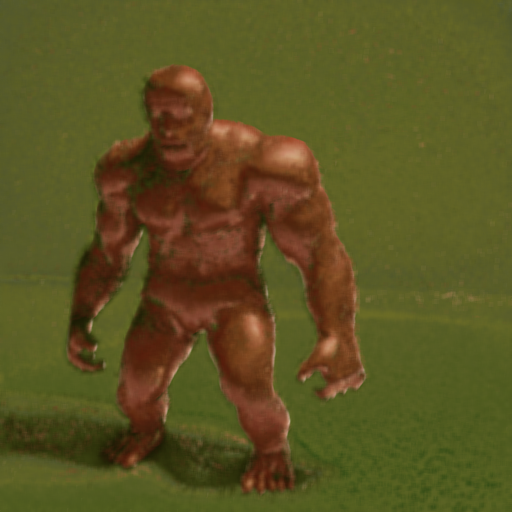
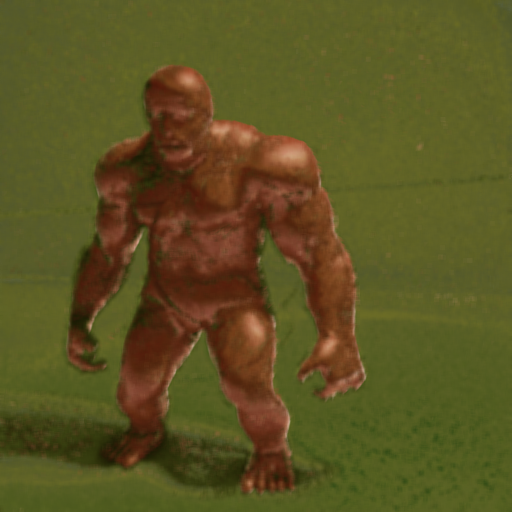
feat: added 4th LPE and fixed k calculation

diff --git a/patchmatch.cpp b/patchmatch.cpp
@@ -29,7 +29,7 @@ std::vector<Patch*> get_patches(const std::vector<RGBA>& img, int width, int hei
     for (int p = 0; p < img.size(); ++p) {
         Patch *patch = result[p];
         patch->coordinates = index_to_position(p, width);
-        patch->neighbor_patches.reserve(window_width * window_width);
+        //patch->neighbor_patches.reserve(window_width * window_width);
         patch->is_matched = false;
 
         const Vector2i& xy = patch->coordinates;
@@ -67,7 +67,7 @@ double Energy(const std::vector<VectorXf*>& A, const std::vector<VectorXf*>& B,
               const VectorXf& Aprime, const VectorXf& Bprime, double mu) {
 //    return (|| A'(p) - B'(q) ||)^2 + mu (|| A(p) - B(q) ||)^2
     double result = 0.0;
-    for (int i = 0; i < 4; ++i) {
+    for (int i = 0; i < 5; ++i) {
         result += Distance(*A[i], *B[i]);
     }
     return (result * mu) + Distance(Aprime, Bprime);
@@ -78,22 +78,24 @@ std::mt19937                            generator(rand_dev());
 std::uniform_real_distribution<double>   distr(-1.0, 1.0);
 
 void Patchmatcher::random_search(NNF_t& NNF, const Image& src, const Image& tgt, Vector2i xy){
-    std::vector<VectorXf*> src_patches(4);
+    std::vector<VectorXf*> src_patches(5);
     int src_index = pos_to_index(xy, src.width);
     const VectorXf& src_stylized_patch = src.patches_stylized[src_index]->buffer;
     src_patches[0] = &(src.patches_original[src_index]->buffer);
     src_patches[1] = &(src.patches_LPE1[src_index]->buffer);
     src_patches[2] = &(src.patches_LPE2[src_index]->buffer);
     src_patches[3] = &(src.patches_LPE3[src_index]->buffer);
+    src_patches[4] = &(src.patches_LPE4[src_index]->buffer);
 
     Vector2i v0 = NNF[pos_to_index(xy, src.width)]; // this is the offset for the patch of interest
-    std::vector<VectorXf*> final_patches(4);
+    std::vector<VectorXf*> final_patches(5);
     int index = pos_to_index(xy + v0, tgt.width);
     const VectorXf& final_stylized_patch = tgt.patches_stylized[index]->buffer;
     final_patches[0] = &(tgt.patches_original[index]->buffer);
     final_patches[1] = &(tgt.patches_LPE1[index]->buffer);
     final_patches[2] = &(tgt.patches_LPE2[index]->buffer);
     final_patches[3] = &(tgt.patches_LPE3[index]->buffer);
+    final_patches[4] = &(tgt.patches_LPE4[index]->buffer);
 
     double final_energy = Energy(src_patches, final_patches, src_stylized_patch, final_stylized_patch, mu);
 
@@ -113,6 +115,7 @@ void Patchmatcher::random_search(NNF_t& NNF, const Image& src, const Image& tgt,
         candidate_patches[1] = &(tgt.patches_LPE1[candidate_index]->buffer);
         candidate_patches[2] = &(tgt.patches_LPE2[candidate_index]->buffer);
         candidate_patches[3] = &(tgt.patches_LPE3[candidate_index]->buffer);
+        candidate_patches[4] = &(tgt.patches_LPE4[candidate_index]->buffer);
         double candidate_energy = Energy(src_patches, candidate_patches, src_stylized_patch, candidate_stylized_patch, mu);
 
         if (candidate_energy < final_energy && !(tgt.patches_stylized[candidate_index]->is_matched)){
@@ -147,27 +150,29 @@ void Patchmatcher::propagate_odd(NNF_t& NNF, const Image& src, const Image& tgt,
     bool left_valid = (xy[0] > 0);
     bool top_valid = (xy[1] > 0);
 
-    std::vector<VectorXf*> src_patches(4);
+    std::vector<VectorXf*> src_patches(5);
     int src_index = pos_to_index(xy, src.width);
     const VectorXf& src_stylized_patch = src.patches_stylized[src_index]->buffer;
     src_patches[0] = &(src.patches_original[src_index]->buffer);
     src_patches[1] = &(src.patches_LPE1[src_index]->buffer);
     src_patches[2] = &(src.patches_LPE2[src_index]->buffer);
     src_patches[3] = &(src.patches_LPE3[src_index]->buffer);
+    src_patches[4] = &(src.patches_LPE4[src_index]->buffer);
 
     Vector2i tgt_center = NNF[pos_to_index(xy, tgt.width)];
-    std::vector<VectorXf*> tgt_center_patches(4);
+    std::vector<VectorXf*> tgt_center_patches(5);
     int tgt_center_index = pos_to_index(xy + tgt_center, tgt.width);
     const VectorXf& tgt_center_stylized_patch = tgt.patches_stylized[tgt_center_index]->buffer;
     tgt_center_patches[0] = &(tgt.patches_original[tgt_center_index]->buffer);
     tgt_center_patches[1] = &(tgt.patches_LPE1[tgt_center_index]->buffer);
     tgt_center_patches[2] = &(tgt.patches_LPE2[tgt_center_index]->buffer);
     tgt_center_patches[3] = &(tgt.patches_LPE3[tgt_center_index]->buffer);
+    tgt_center_patches[4] = &(tgt.patches_LPE4[tgt_center_index]->buffer);
 
 
     Vector2i tgt_left;
     Vector2i tmp;
-    std::vector<VectorXf*> tgt_left_patches(4);
+    std::vector<VectorXf*> tgt_left_patches(5);
     VectorXf tgt_left_stylized_patch;
     if (left_valid) {
         tgt_left = NNF[pos_to_index(xy - Vector2i(1, 0), tgt.width)];
@@ -179,6 +184,7 @@ void Patchmatcher::propagate_odd(NNF_t& NNF, const Image& src, const Image& tgt,
             tgt_left_patches[1] = &(tgt.patches_LPE1[tgt_left_index]->buffer);
             tgt_left_patches[2] = &(tgt.patches_LPE2[tgt_left_index]->buffer);
             tgt_left_patches[3] = &(tgt.patches_LPE3[tgt_left_index]->buffer);
+            tgt_left_patches[4] = &(tgt.patches_LPE4[tgt_left_index]->buffer);
             if (tgt.patches_original[tgt_left_index]->is_matched) left_valid = false;
         } else {
             left_valid = false;
@@ -186,7 +192,7 @@ void Patchmatcher::propagate_odd(NNF_t& NNF, const Image& src, const Image& tgt,
     }
 
     Vector2i tgt_top;
-    std::vector<VectorXf*> tgt_top_patches(4);
+    std::vector<VectorXf*> tgt_top_patches(5);
     VectorXf tgt_top_stylized_patch;
     if (top_valid) {
         tgt_top = NNF[pos_to_index(xy - Vector2i(0, 1), tgt.width)];
@@ -198,6 +204,7 @@ void Patchmatcher::propagate_odd(NNF_t& NNF, const Image& src, const Image& tgt,
             tgt_top_patches[1] = &(tgt.patches_LPE1[tgt_top_index]->buffer);
             tgt_top_patches[2] = &(tgt.patches_LPE2[tgt_top_index]->buffer);
             tgt_top_patches[3] = &(tgt.patches_LPE3[tgt_top_index]->buffer);
+            tgt_top_patches[4] = &(tgt.patches_LPE4[tgt_top_index]->buffer);
             if (tgt.patches_original[tgt_top_index]->is_matched) top_valid = false;
         } else {
             top_valid = false;
@@ -227,27 +234,29 @@ void Patchmatcher::propagate_even(NNF_t& NNF, const Image& src, const Image& tgt
     bool right_valid = (xy[0] < src.width - 1);
     bool bottom_valid = (xy[1] < src.height - 1);
 
-    std::vector<VectorXf*> src_patches(4);
+    std::vector<VectorXf*> src_patches(5);
     int src_index = pos_to_index(xy, src.width);
     const VectorXf& src_stylized_patch = src.patches_stylized[src_index]->buffer;
     src_patches[0] = &(src.patches_original[src_index]->buffer);
     src_patches[1] = &(src.patches_LPE1[src_index]->buffer);
     src_patches[2] = &(src.patches_LPE2[src_index]->buffer);
     src_patches[3] = &(src.patches_LPE3[src_index]->buffer);
+    src_patches[4] = &(src.patches_LPE4[src_index]->buffer);
 
     Vector2i tgt_center = NNF[pos_to_index(xy, tgt.width)];
-    std::vector<VectorXf*> tgt_center_patches(4);
+    std::vector<VectorXf*> tgt_center_patches(5);
     int tgt_center_index = pos_to_index(xy + tgt_center, tgt.width);
     const VectorXf& tgt_center_stylized_patch = tgt.patches_stylized[tgt_center_index]->buffer;
     tgt_center_patches[0] = &(tgt.patches_original[tgt_center_index]->buffer);
     tgt_center_patches[1] = &(tgt.patches_LPE1[tgt_center_index]->buffer);
     tgt_center_patches[2] = &(tgt.patches_LPE2[tgt_center_index]->buffer);
     tgt_center_patches[3] = &(tgt.patches_LPE3[tgt_center_index]->buffer);
+    tgt_center_patches[4] = &(tgt.patches_LPE4[tgt_center_index]->buffer);
 
 
     Vector2i tgt_right;
     Vector2i tmp;
-    std::vector<VectorXf*> tgt_right_patches(4);
+    std::vector<VectorXf*> tgt_right_patches(5);
     VectorXf tgt_right_stylized_patch;
     if (right_valid) {
         tgt_right = NNF[pos_to_index(xy + Vector2i(1, 0), tgt.width)];
@@ -259,6 +268,7 @@ void Patchmatcher::propagate_even(NNF_t& NNF, const Image& src, const Image& tgt
             tgt_right_patches[1] = &(tgt.patches_LPE1[tgt_right_index]->buffer);
             tgt_right_patches[2] = &(tgt.patches_LPE2[tgt_right_index]->buffer);
             tgt_right_patches[3] = &(tgt.patches_LPE3[tgt_right_index]->buffer);
+            tgt_right_patches[4] = &(tgt.patches_LPE4[tgt_right_index]->buffer);
             if (tgt.patches_original[tgt_right_index]->is_matched) right_valid = false;
         } else {
             right_valid = false;
@@ -266,7 +276,7 @@ void Patchmatcher::propagate_even(NNF_t& NNF, const Image& src, const Image& tgt
     }
 
     Vector2i tgt_bottom;
-    std::vector<VectorXf*> tgt_bottom_patches(4);
+    std::vector<VectorXf*> tgt_bottom_patches(5);
     VectorXf tgt_bottom_stylized_patch;
     if (bottom_valid) {
         tgt_bottom = NNF[pos_to_index(xy + Vector2i(0, 1), tgt.width)];
@@ -278,6 +288,7 @@ void Patchmatcher::propagate_even(NNF_t& NNF, const Image& src, const Image& tgt
             tgt_bottom_patches[1] = &(tgt.patches_LPE1[tgt_bottom_index]->buffer);
             tgt_bottom_patches[2] = &(tgt.patches_LPE2[tgt_bottom_index]->buffer);
             tgt_bottom_patches[3] = &(tgt.patches_LPE3[tgt_bottom_index]->buffer);
+            tgt_bottom_patches[4] = &(tgt.patches_LPE4[tgt_bottom_index]->buffer);
             if (tgt.patches_original[tgt_bottom_index]->is_matched) bottom_valid = false;
         } else {
             bottom_valid = false;

diff --git a/stylit.cpp b/stylit.cpp
@@ -25,7 +25,8 @@ void init_image(const std::vector<QString>& filenames, Image& img) {
         case 1: img.patches_LPE1 = patches; break;
         case 2: img.patches_LPE2 = patches; break;
         case 3: img.patches_LPE3 = patches; break;
-        case 4: img.patches_stylized = patches; break;
+        case 4: img.patches_LPE4 = patches; break;
+        case 5: img.patches_stylized = patches; break;
         }
     }
 }
@@ -63,13 +64,14 @@ void Stylit::stylit_algorithm(const Image& src, Image& tgt){
         tgt.patches_LPE1[i]->is_matched = false;
         tgt.patches_LPE2[i]->is_matched = false;
         tgt.patches_LPE3[i]->is_matched = false;
+        tgt.patches_LPE4[i]->is_matched = false;
         tgt.patches_stylized[i]->is_matched = false;
         unmatched.insert(i);
     }
 
     while(percent_coverage < 0.95f){
         NNF_t temp_NNF = patchmatcher.patch_match(src, tgt, unmatched);
-        int k = 0.7 * patchmatcher.errors.size();//calculate_error_budget(patchmatcher.errors);
+        int k = calculate_error_budget(patchmatcher.errors);
 
         for (int i = 0; i < k; i++){
             int source_index = patchmatcher.errors[i].first;
@@ -86,6 +88,7 @@ void Stylit::stylit_algorithm(const Image& src, Image& tgt){
             tgt.patches_LPE1[target_index]->is_matched = true;
             tgt.patches_LPE2[target_index]->is_matched = true;
             tgt.patches_LPE3[target_index]->is_matched = true;
+            tgt.patches_LPE4[target_index]->is_matched = true;
             final_NNF[source_index] = temp_NNF[source_index];
             final_reverse_NNF[target_index] = -temp_NNF[source_index];
 
@@ -107,9 +110,7 @@ void Stylit::stylit_algorithm(const Image& src, Image& tgt){
     std::vector<RGBA> new_image(tgt.width * tgt.height);
 #pragma omp parallel for
     for(int i = 0; i < (tgt.width * tgt.height); i ++){
-        if (tgt.patches_original[i]->is_matched){
-            new_image[i] = average(i, src, tgt);
-        }
+        new_image[i] = average(i, src, tgt);
     }
 
     tgt.patches_stylized = get_patches(new_image, tgt.width, tgt.height);
@@ -124,7 +125,7 @@ struct compare {
 
 int Stylit::calculate_error_budget(std::vector<std::pair<int, double>> &errors){
     std::sort(errors.begin(), errors.end(), compare());
-    int step_size = errors.size() / 50;
+    int step_size = (errors.size() + 50 - 1) / 50;
     MatrixX2d l_matrix(50, 2);
     VectorXd b_vector(50);
     double max_error = errors[errors.size() - 1].second;
@@ -146,11 +147,12 @@ int Stylit::calculate_error_budget(std::vector<std::pair<int, double>> &errors){
 void Stylit::resolve_unmatched(const Image& src, Image& tgt, const std::unordered_set<int>& unmatched) {
     for (int i = 0; i < tgt.patches_original.size(); ++i) {
         if (!tgt.patches_original[i]->is_matched) {
-            std::vector<VectorXf*> tgt_patches(4);
+            std::vector<VectorXf*> tgt_patches(5);
             tgt_patches[0] = &(tgt.patches_original[i]->buffer);
             tgt_patches[1] = &(tgt.patches_LPE1[i]->buffer);
             tgt_patches[2] = &(tgt.patches_LPE2[i]->buffer);
             tgt_patches[3] = &(tgt.patches_LPE3[i]->buffer);
+            tgt_patches[4] = &(tgt.patches_LPE4[i]->buffer);
             const VectorXf& tgt_style = tgt.patches_stylized[i]->buffer;
 
             Vector2i nearest_neighbor_offset = nearest_neighbor(src, tgt_patches, tgt_style, index_to_position(i, tgt.width));
@@ -160,6 +162,7 @@ void Stylit::resolve_unmatched(const Image& src, Image& tgt, const std::unordere
             tgt.patches_LPE1[i]->is_matched = true;
             tgt.patches_LPE2[i]->is_matched = true;
             tgt.patches_LPE3[i]->is_matched = true;
+            tgt.patches_LPE4[i]->is_matched = true;
             final_NNF[source_index] = nearest_neighbor_offset;
             final_reverse_NNF[i] = -final_NNF[source_index];
         }
@@ -171,12 +174,13 @@ Vector2i Stylit::nearest_neighbor(const Image& src, std::vector<VectorXf*> tgt_p
     Vector2i nearest;
 #pragma omp parallel for
     for (int i = 0; i < src.patches_original.size(); ++i) {
-        std::vector<VectorXf*> src_patches(4);
+        std::vector<VectorXf*> src_patches(5);
         const VectorXf& src_stylized_patch = src.patches_stylized[i]->buffer;
         src_patches[0] = &(src.patches_original[i]->buffer);
         src_patches[1] = &(src.patches_LPE1[i]->buffer);
         src_patches[2] = &(src.patches_LPE2[i]->buffer);
         src_patches[3] = &(src.patches_LPE3[i]->buffer);
+        src_patches[4] = &(src.patches_LPE4[i]->buffer);
 
         double energy = Energy(src_patches, tgt_patches, src_stylized_patch, tgt_style, 2.0);
         if (energy < min_energy) {

diff --git a/main.cpp b/main.cpp
@@ -36,20 +36,22 @@ int main(int argc, char *argv[])
     const QString stylization = settings.value("style/filePath").toString();
 
     std::vector<QString> srcPaths;
-    srcPaths.reserve(5);
-    srcPaths.push_back(srcFolder + "/color.bmp");
-    srcPaths.push_back(srcFolder + "/LPE1.bmp");
-    srcPaths.push_back(srcFolder + "/LPE2.bmp");
-    srcPaths.push_back(srcFolder + "/LPE3.bmp");
+    srcPaths.reserve(6);
+    srcPaths.push_back(srcFolder + "color.bmp");
+    srcPaths.push_back(srcFolder + "LPE1.bmp");
+    srcPaths.push_back(srcFolder + "LPE2.bmp");
+    srcPaths.push_back(srcFolder + "LPE3.bmp");
+    srcPaths.push_back(srcFolder + "LPE4.png");
     srcPaths.push_back(stylization);
 
     std::vector<QString> tgtPaths;
-    srcPaths.reserve(5);
-    tgtPaths.push_back(tgtFolder + "/color.bmp");
-    tgtPaths.push_back(tgtFolder + "/LPE1.bmp");
-    tgtPaths.push_back(tgtFolder + "/LPE2.bmp");
-    tgtPaths.push_back(tgtFolder + "/LPE3.bmp");
-    tgtPaths.push_back("Data/Guy/black_square.bmp");
+    srcPaths.reserve(6);
+    tgtPaths.push_back(tgtFolder + "color.bmp");
+    tgtPaths.push_back(tgtFolder + "LPE1.bmp");
+    tgtPaths.push_back(tgtFolder + "LPE2.bmp");
+    tgtPaths.push_back(tgtFolder + "LPE3.bmp");
+    tgtPaths.push_back(srcFolder + "LPE4.png");
+    tgtPaths.push_back(tgtFolder + "black_square.bmp");
 
     Image srcImg, tgtImg;
     init_image(srcPaths, srcImg);

diff --git a/util.h b/util.h
@@ -29,6 +29,7 @@ struct Image {
     std::vector<Patch*> patches_LPE1;
     std::vector<Patch*> patches_LPE2;
     std::vector<Patch*> patches_LPE3;
+    std::vector<Patch*> patches_LPE4;
     std::vector<Patch*> patches_stylized;
 };
 
